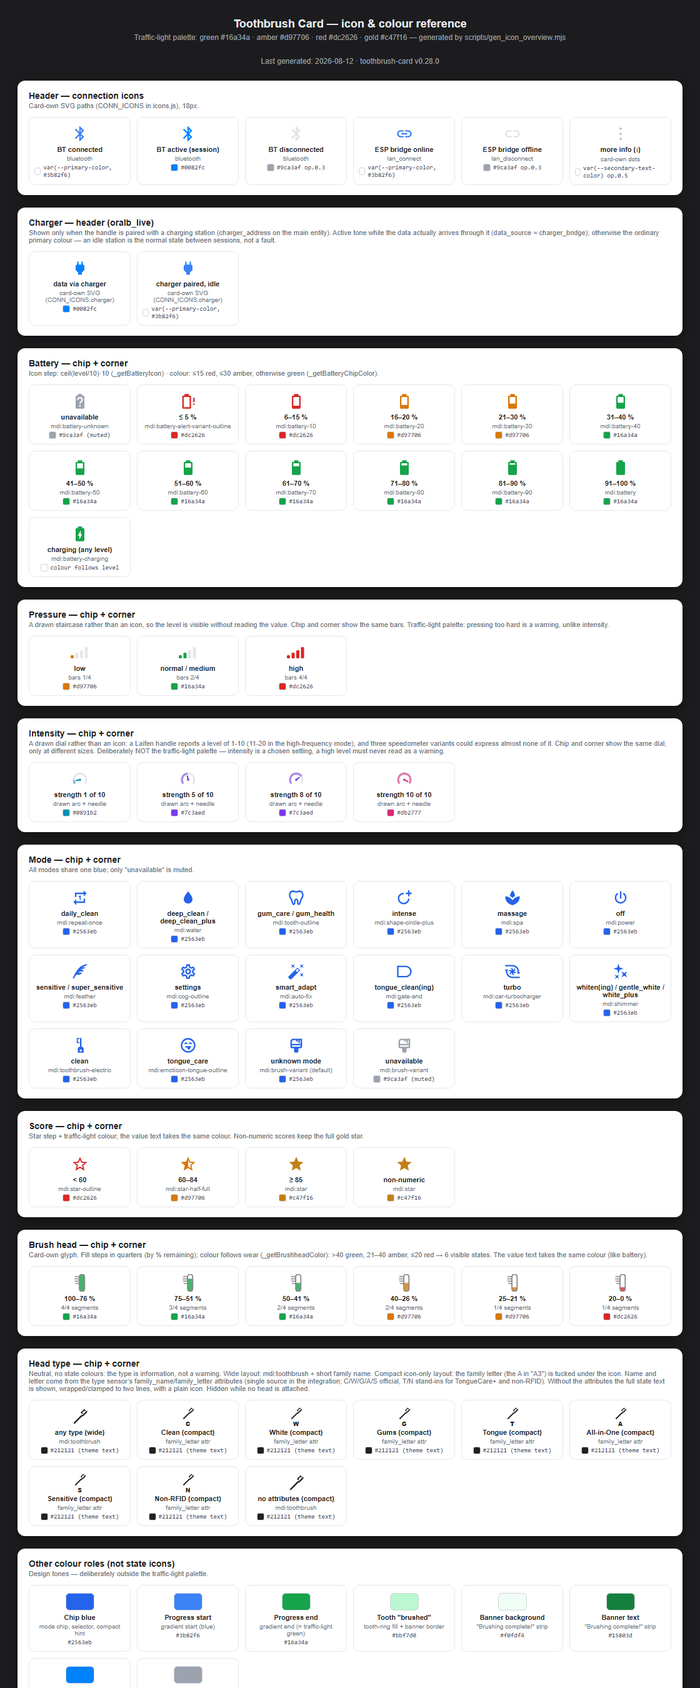
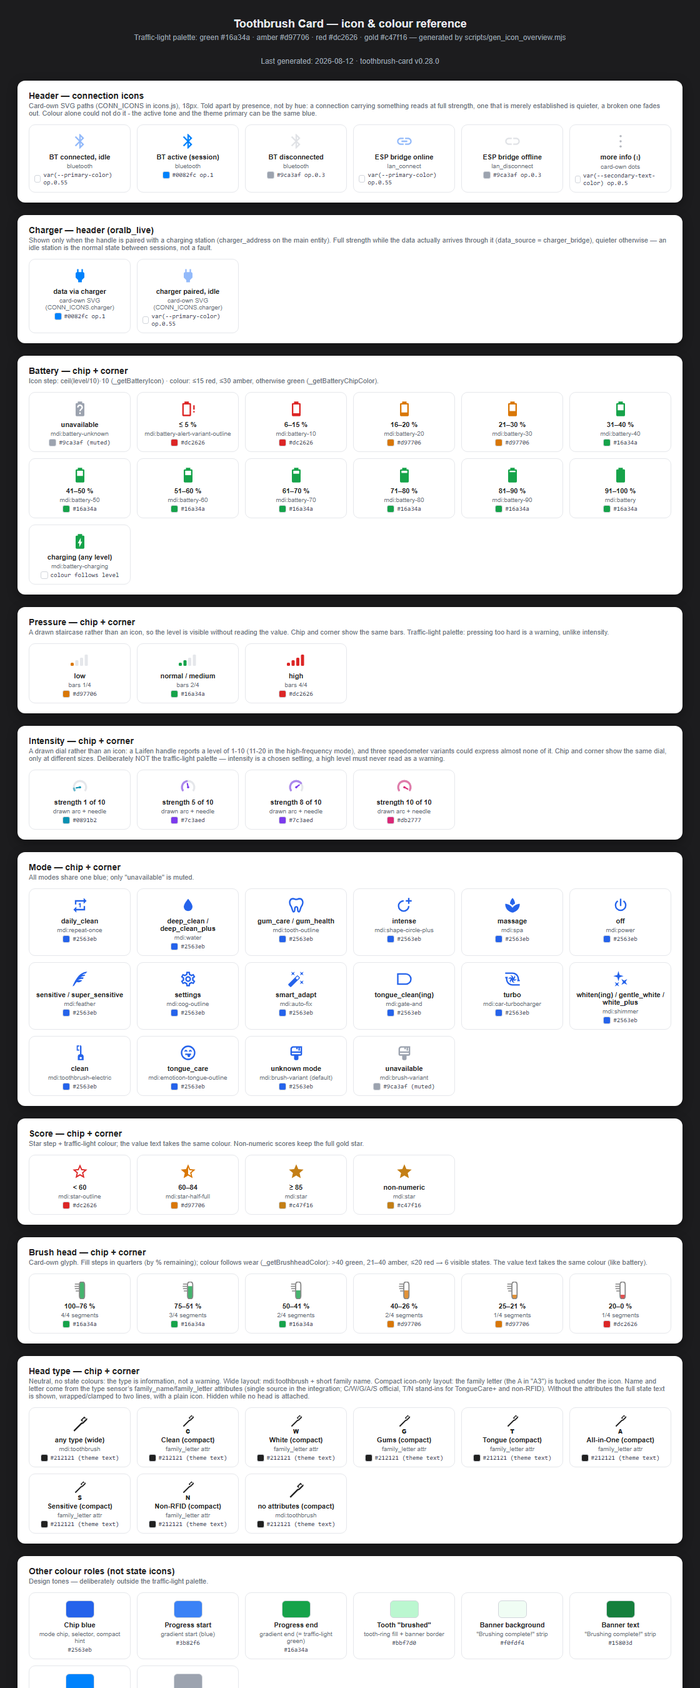
Tell the header connection states apart by presence, not hue
An idle charging station and one actually carrying the data looked
identical, and so did a connected Bluetooth handle and one in a session.
The states differed only in colour: #0082fc for active against
--primary-color for the rest. Those are a 1.02:1 contrast when the theme
leaves primary at its default blue - the same icon twice, as far as
anyone can see.

Colour could not have fixed it either, because --primary-color belongs to
the user. Whatever tone "active" were given, how different it looked
would depend on the theme it happened to land in, and for some themes it
would be identical again.

So the distinction moves off hue and onto presence: a connection carrying
something reads at full strength, one that is merely established sits at
55 %, and a broken one keeps its existing 30 % and muted tone. Three
steps that hold in any theme, because they are relative to each other
rather than to a hue.

That also puts the emphasis where it belongs. The header says what is
connected; what is happening right now should be the part that stands
out.

The icon reference shows the states at their real opacities rather than
all at full strength, which is why they looked the same there too.

Changed region(s): [[0.0312, 0.0622, 0.9688, 1.0]]

diff --git a/dist/toothbrush-card.js b/dist/toothbrush-card.js
@@ -1145,11 +1145,11 @@ function $19924b6af6e06bb0$export$fbe194d49df99db9(prev, { sector: sector, activ
 
 
 var $7bfe0f8b5ad5b7ee$exports = {};
-$7bfe0f8b5ad5b7ee$exports = "ha-card {\n  overflow: visible;\n  container-type: inline-size;\n}\n\n.device-not-found {\n  color: var(--secondary-text-color);\n  padding: 16px 18px;\n  font-size: 13px;\n}\n\n.card-header {\n  border-bottom: 1px solid var(--divider-color, #f3f4f6);\n  border-top-left-radius: var(--ha-card-border-radius, 12px);\n  border-top-right-radius: var(--ha-card-border-radius, 12px);\n  justify-content: space-between;\n  align-items: center;\n  padding: 16px 18px 12px;\n  display: flex;\n  position: relative;\n  overflow: hidden;\n}\n\n.card-header:before {\n  content: \"\";\n  background: var(--accent-color, transparent);\n  opacity: .12;\n  pointer-events: none;\n  transition: background .5s;\n  position: absolute;\n  inset: 0;\n}\n\n.header-accent {\n  background: var(--accent-color);\n  border-radius: 3px;\n  flex-shrink: 0;\n  width: 4px;\n  height: 28px;\n  transition: background .4s;\n}\n\n.header-title {\n  align-items: center;\n  gap: 8px;\n  display: flex;\n}\n\n.header-title h2 {\n  color: var(--primary-text-color);\n  letter-spacing: -.01em;\n  margin: 0;\n  font-size: 15px;\n  font-weight: 700;\n}\n\n.header-sub {\n  color: var(--secondary-text-color);\n  font-size: 12px;\n  font-weight: 400;\n}\n\n.header-icons {\n  align-items: center;\n  gap: 10px;\n  display: flex;\n}\n\n.header-icons svg:not(.conn-icon) {\n  width: 16px;\n  height: 16px;\n}\n\n.conn-icon {\n  width: 18px;\n  height: 18px;\n  color: var(--primary-color, #3b82f6);\n  fill: currentColor;\n  cursor: pointer;\n  opacity: 1;\n  transition: color .4s, opacity .4s;\n}\n\n.conn-icon.active {\n  color: #0082fc;\n}\n\n.conn-icon.disconnected {\n  color: var(--disabled-text-color, #9ca3af);\n  opacity: .3;\n}\n\n.more-info-btn {\n  cursor: pointer;\n  opacity: .5;\n  transition: opacity .2s;\n  color: var(--secondary-text-color) !important;\n}\n\n.more-info-btn:hover {\n  opacity: 1;\n}\n\n.init-wrap {\n  flex-direction: column;\n  justify-content: center;\n  align-items: center;\n  padding: 24px 0 32px;\n  display: flex;\n  overflow: hidden;\n}\n\n.init-rings {\n  flex-shrink: 0;\n  justify-content: center;\n  align-items: center;\n  width: 180px;\n  height: 180px;\n  display: flex;\n  position: relative;\n}\n\n.init-ring {\n  border: 2px solid var(--primary-color, #3b82f6);\n  opacity: 0;\n  border-radius: 50%;\n  animation: 3s ease-out infinite initPulse;\n  position: absolute;\n}\n\n.init-ring-1 {\n  width: 70px;\n  height: 70px;\n  animation-delay: 0s;\n}\n\n.init-ring-2 {\n  width: 70px;\n  height: 70px;\n  animation-delay: 1s;\n}\n\n.init-ring-3 {\n  width: 70px;\n  height: 70px;\n  animation-delay: 2s;\n}\n\n@keyframes initPulse {\n  0% {\n    opacity: .6;\n    width: 70px;\n    height: 70px;\n  }\n\n  100% {\n    opacity: 0;\n    width: 190px;\n    height: 190px;\n  }\n}\n\n.init-bt {\n  z-index: 1;\n  width: 52px;\n  height: 52px;\n  animation: 2s ease-in-out infinite initBtPulse;\n  position: relative;\n}\n\n.init-bt svg {\n  width: 52px;\n  height: 52px;\n}\n\n@keyframes initBtPulse {\n  0%, 100% {\n    opacity: .5;\n    transform: scale(.95);\n  }\n\n  50% {\n    opacity: 1;\n    transform: scale(1.05);\n  }\n}\n\n.init-label {\n  color: var(--primary-color, #3b82f6);\n  margin-top: 6px;\n  font-size: 13px;\n  font-weight: 500;\n}\n\n.chips-row {\n  gap: 8px;\n  padding: 12px 14px;\n  display: flex;\n}\n\n.chips-row > * {\n  flex: 1;\n  min-width: 0;\n}\n\n.chip {\n  background: var(--card-background-color, #f9fafb);\n  border: 1px solid var(--divider-color, #e5e7eb);\n  cursor: pointer;\n  border-radius: 10px;\n  grid-template-rows: auto auto;\n  grid-template-columns: auto 1fr;\n  align-items: center;\n  gap: 1px 8px;\n  padding: 8px 10px;\n  display: grid;\n}\n\n.chip-icon {\n  grid-row: 1 / 3;\n  justify-content: center;\n  align-items: center;\n  display: flex;\n}\n\n.chip-icon ha-icon {\n  --mdc-icon-size: 24px;\n}\n\n.head-type-letter {\n  color: var(--primary-text-color);\n  font-weight: 800;\n  display: none;\n}\n\n.chip-icon .brushhead-svg {\n  width: 19px;\n  height: 24px;\n}\n\n.chip-icon.green {\n  color: #16a34a;\n}\n\n.chip-icon.blue {\n  color: #2563eb;\n}\n\n.chip-icon.amber {\n  color: #d97706;\n}\n\n.chip-icon.red {\n  color: #dc2626;\n}\n\n.chip-icon.muted {\n  color: var(--disabled-text-color, #9ca3af);\n}\n\n.chip-icon.int-low {\n  color: #0891b2;\n}\n\n.chip-icon.int-med {\n  color: #7c3aed;\n}\n\n.chip-icon.int-high {\n  color: #db2777;\n}\n\n.chip-icon.gold {\n  color: #c47f16;\n}\n\n.chip-label {\n  color: var(--secondary-text-color);\n  text-transform: uppercase;\n  letter-spacing: .06em;\n  font-size: 9px;\n  font-weight: 600;\n}\n\n.chip-value {\n  color: var(--primary-text-color);\n  text-transform: capitalize;\n  text-overflow: ellipsis;\n  white-space: nowrap;\n  font-size: 12px;\n  font-weight: 700;\n  line-height: 1;\n  overflow: hidden;\n}\n\n.chip-value.green {\n  color: #16a34a;\n}\n\n.chip-value.blue {\n  color: #2563eb;\n}\n\n.chip-value.amber {\n  color: #d97706;\n}\n\n.chip-value.red {\n  color: #dc2626;\n}\n\n.chip-value.int-low {\n  color: #0891b2;\n}\n\n.chip-value.int-med {\n  color: #7c3aed;\n}\n\n.chip-value.int-high {\n  color: #db2777;\n}\n\n.chip-value.gold {\n  color: #c47f16;\n}\n\n.chip-value.muted {\n  color: var(--disabled-text-color, #9ca3af);\n}\n\n.chip-value.prose {\n  text-transform: none;\n}\n\n.chip-value.wrap {\n  white-space: normal;\n  -webkit-line-clamp: 2;\n  line-clamp: 2;\n  -webkit-box-orient: vertical;\n  font-size: 11px;\n  line-height: 1.15;\n  display: -webkit-box;\n}\n\n.pressure-bars {\n  grid-row: 1 / 3;\n  justify-content: center;\n  align-items: flex-end;\n  gap: 2px;\n  display: flex;\n}\n\n.pb {\n  background: var(--divider-color, #e5e7eb);\n  border-radius: 2px;\n  width: 4px;\n  transition: background .3s;\n}\n\n.pb:first-child {\n  height: 5px;\n}\n\n.pb:nth-child(2) {\n  height: 9px;\n}\n\n.pb:nth-child(3) {\n  height: 13px;\n}\n\n.pb:nth-child(4) {\n  height: 18px;\n}\n\n.p-low .pb:first-child {\n  background: #d97706;\n}\n\n.p-normal .pb:first-child, .p-normal .pb:nth-child(2) {\n  background: #16a34a;\n}\n\n.p-high .pb {\n  background: #dc2626;\n}\n\n.intensity-dial {\n  width: 24px;\n  height: 24px;\n  display: block;\n}\n\n.id-track {\n  fill: none;\n  stroke: var(--divider-color, #e5e7eb);\n  stroke-width: 2.8px;\n  stroke-linecap: round;\n}\n\n.id-arc {\n  fill: none;\n  stroke: currentColor;\n  stroke-width: 2.8px;\n  stroke-linecap: round;\n  opacity: .55;\n  transition: stroke-dasharray .3s;\n}\n\n.id-needle {\n  stroke: currentColor;\n  stroke-width: 1.8px;\n  stroke-linecap: round;\n}\n\n.id-hub {\n  fill: currentColor;\n}\n\n.mode-chip-wrap {\n  position: relative;\n}\n\n.chip.selectable {\n  cursor: pointer;\n}\n\n.mode-caret {\n  opacity: .5;\n  font-size: 10px;\n}\n\n.chip-select-hint {\n  display: none;\n}\n\n.dropdown-backdrop {\n  z-index: 9;\n  position: fixed;\n  inset: 0;\n}\n\n.mode-dropdown {\n  z-index: 10;\n  background: var(--card-background-color, #fff);\n  border: 1px solid var(--divider-color, #e5e7eb);\n  border-radius: 12px;\n  min-width: 160px;\n  animation: .15s ease-out dropdown-in;\n  position: absolute;\n  top: calc(100% + 4px);\n  right: 0;\n  overflow: hidden;\n  box-shadow: 0 4px 16px #0000001f;\n}\n\n@keyframes dropdown-in {\n  from {\n    opacity: 0;\n    transform: translateY(-4px);\n  }\n\n  to {\n    opacity: 1;\n    transform: translateY(0);\n  }\n}\n\n.mode-option {\n  cursor: pointer;\n  color: var(--primary-text-color);\n  align-items: center;\n  gap: 10px;\n  padding: 10px 14px;\n  font-size: 13px;\n  font-weight: 500;\n  transition: background .15s;\n  display: flex;\n}\n\n.mode-option:hover {\n  background: var(--secondary-background-color, #f3f4f6);\n}\n\n.mode-option.active {\n  color: #2563eb;\n  font-weight: 600;\n}\n\n.mode-option ha-icon {\n  --mdc-icon-size: 20px;\n  color: inherit;\n}\n\n.mode-option:not(:last-child) {\n  border-bottom: 1px solid var(--divider-color, #f3f4f6);\n}\n\n.visual-area {\n  flex-direction: column;\n  align-items: center;\n  padding: 4px 14px 10px;\n  display: flex;\n  position: relative;\n}\n\n.card-header + .visual-area, .visual-area:first-child {\n  padding-top: 16px;\n}\n\n.tooth-wrap {\n  width: calc(210px * var(--tb-scale, 1));\n  height: calc(210px * var(--tb-scale, 1));\n  justify-content: center;\n  align-items: center;\n  display: flex;\n  position: relative;\n}\n\n.tooth-svg {\n  width: 100%;\n  height: 100%;\n}\n\n.zone {\n  fill: var(--tb-tooth-color, var(--divider-color, #f3f4f6));\n  transition: fill .3s;\n}\n\n.brushing .zone {\n  fill: var(--tb-active-color, #93c5fd);\n  animation: .8s ease-in-out infinite alternate brush-zone;\n}\n\n@keyframes brush-zone {\n  from {\n    opacity: .6;\n  }\n\n  to {\n    opacity: 1;\n  }\n}\n\n.done .zone {\n  fill: var(--tb-done-color, #bbf7d0) !important;\n}\n\n.center-info {\n  text-align: center;\n  pointer-events: none;\n  position: absolute;\n  top: 50%;\n  left: 50%;\n  transform: translate(-50%, -50%);\n}\n\n.session-label {\n  font-size: calc(9px * var(--tb-scale, 1));\n  color: var(--secondary-text-color);\n  text-transform: uppercase;\n  letter-spacing: .1em;\n  margin-bottom: 2px;\n  font-weight: 600;\n  display: block;\n}\n\n.timer-display {\n  font-size: calc(30px * var(--tb-scale, 1));\n  color: var(--primary-text-color);\n  letter-spacing: -1px;\n  font-variant-numeric: tabular-nums;\n  font-weight: 400;\n  line-height: 1;\n  transition: color .4s;\n}\n\n.timer-display.active {\n  color: var(--primary-color, #2563eb);\n}\n\n.center-info.standalone {\n  pointer-events: auto;\n  cursor: pointer;\n  padding: 10px 0 4px;\n  position: static;\n  transform: none;\n}\n\n.center-info.standalone .timer-display {\n  font-size: calc(52px * var(--tb-scale, 1));\n  letter-spacing: -2px;\n}\n\n.status-row {\n  grid-template-columns: calc(66px * var(--tb-scale, 1)) 1fr calc(66px * var(--tb-scale, 1));\n  align-items: center;\n  width: calc(100% + 8px);\n  margin: 2px -4px 10px;\n  display: grid;\n}\n\n.status-row .card-corner {\n  position: static;\n}\n\n.status-text-wrap {\n  text-align: center;\n  cursor: pointer;\n}\n\n.status-main {\n  font-size: calc(14px * var(--tb-scale, 1));\n  color: var(--primary-text-color);\n  text-transform: capitalize;\n  font-weight: 600;\n  transition: color .4s;\n}\n\n.status-main.active {\n  color: var(--primary-color, #2563eb);\n}\n\n.status-sub {\n  font-size: calc(11px * var(--tb-scale, 1));\n  color: var(--secondary-text-color);\n  text-transform: capitalize;\n  margin-top: 1px;\n}\n\n.progress-wrap {\n  opacity: 0;\n  width: 100%;\n  height: 0;\n  padding: 0 14px;\n  transition: opacity .4s, height .4s;\n  overflow: hidden;\n}\n\n.progress-wrap.visible {\n  opacity: 1;\n  height: auto;\n  padding: 0 14px 10px;\n}\n\n.progress-track {\n  height: calc(var(--tb-bar-height, 4px) * var(--tb-scale, 1));\n  gap: 3px;\n  display: flex;\n}\n\n.progress-wrap.bar-bold {\n  --tb-bar-height: 8px;\n}\n\n.progress-wrap.bar-xl {\n  --tb-bar-height: 12px;\n}\n\n.progress-seg {\n  background: var(--divider-color, #e5e7eb);\n  border-radius: calc(var(--tb-bar-height, 4px) * var(--tb-scale, 1) / 2);\n  flex: 1;\n  overflow: hidden;\n}\n\n.progress-fill {\n  border-radius: calc(var(--tb-bar-height, 4px) * var(--tb-scale, 1) / 2);\n  height: 100%;\n  transition: width .5s;\n}\n\n.progress-labels {\n  font-size: calc(10px * var(--tb-scale, 1));\n  color: var(--secondary-text-color);\n  justify-content: space-between;\n  margin-top: 4px;\n  display: flex;\n}\n\n.progress-labels span:first-child {\n  text-transform: capitalize;\n}\n\n.done-badge {\n  background: var(--card-background-color, #f0fdf4);\n  text-align: center;\n  border-top: 1px solid #bbf7d0;\n  padding: 10px 14px;\n  display: none;\n  position: relative;\n}\n\n.done-dismiss {\n  cursor: pointer;\n  color: var(--secondary-text-color, #888);\n  background: none;\n  border: none;\n  padding: 2px 4px;\n  font-size: 16px;\n  line-height: 1;\n  position: absolute;\n  top: 6px;\n  right: 10px;\n}\n\n.done-dismiss:hover {\n  color: var(--primary-text-color, #333);\n}\n\n.done-badge.show {\n  animation: .4s cubic-bezier(.34, 1.56, .64, 1) pop-in;\n  display: block;\n}\n\n@keyframes pop-in {\n  from {\n    opacity: 0;\n    transform: scaleY(.7);\n  }\n\n  to {\n    opacity: 1;\n    transform: scaleY(1);\n  }\n}\n\n.done-badge p {\n  color: #15803d;\n  margin: 0;\n  font-size: 13px;\n  font-weight: 600;\n}\n\n.done-badge span {\n  color: #16a34a;\n  font-size: 11px;\n}\n\n.done-age {\n  color: var(--secondary-text-color, #888);\n  font-size: 11px;\n  font-weight: 400;\n}\n\n.done-badge.aborted {\n  border-top-color: #fde68a;\n}\n\n.done-badge.aborted p {\n  color: #b45309;\n}\n\n.done-badge.aborted span {\n  color: #d97706;\n}\n\n.card-corner {\n  width: calc(66px * var(--tb-scale, 1));\n  cursor: pointer;\n  opacity: .85;\n  z-index: 1;\n  flex-direction: column;\n  align-items: center;\n  gap: 1px;\n  transition: opacity .2s;\n  display: flex;\n  position: absolute;\n}\n\n.card-corner:hover {\n  opacity: 1;\n}\n\n.card-corner.tl {\n  top: 6px;\n  left: 10px;\n}\n\n.card-corner.tr {\n  top: 6px;\n  right: 10px;\n}\n\n.corner-ico .intensity-dial {\n  width: 100%;\n  height: 100%;\n}\n\n.corner-ico .pressure-bars {\n  width: 100%;\n  height: 100%;\n  transform: scale(var(--tb-scale, 1));\n  transform-origin: center;\n}\n\n.corner-ico {\n  --mdc-icon-size: calc(22px * var(--tb-scale, 1));\n  width: calc(22px * var(--tb-scale, 1));\n  height: calc(22px * var(--tb-scale, 1));\n}\n\n.corner-lbl {\n  font-size: calc(8px * var(--tb-scale, 1));\n  letter-spacing: .06em;\n  text-transform: uppercase;\n  color: var(--secondary-text-color);\n  text-overflow: ellipsis;\n  white-space: nowrap;\n  max-width: 100%;\n  font-weight: 700;\n  overflow: hidden;\n}\n\n.corner-val {\n  font-size: calc(11px * var(--tb-scale, 1));\n  font-variant-numeric: tabular-nums;\n  text-overflow: ellipsis;\n  white-space: nowrap;\n  max-width: 100%;\n  font-weight: 800;\n  overflow: hidden;\n}\n\n.corner-val.wrap {\n  white-space: normal;\n  font-size: calc(10px * var(--tb-scale, 1));\n  text-align: center;\n  -webkit-line-clamp: 2;\n  line-clamp: 2;\n  -webkit-box-orient: vertical;\n  line-height: 1.15;\n  display: -webkit-box;\n}\n\n.corner-ico.green, .corner-val.green {\n  color: #16a34a;\n}\n\n.corner-ico.blue, .corner-val.blue {\n  color: #2563eb;\n}\n\n.corner-ico.amber, .corner-val.amber {\n  color: #d97706;\n}\n\n.corner-ico.red, .corner-val.red {\n  color: #dc2626;\n}\n\n.corner-ico.muted, .corner-val.muted {\n  color: var(--disabled-text-color, #9ca3af);\n}\n\n.corner-ico.int-low, .corner-val.int-low {\n  color: #0891b2;\n}\n\n.corner-ico.int-med, .corner-val.int-med {\n  color: #7c3aed;\n}\n\n.corner-ico.int-high, .corner-val.int-high {\n  color: #db2777;\n}\n\n.corner-ico.gold, .corner-val.gold {\n  color: #c47f16;\n}\n\n.brushhead-svg {\n  width: calc(17px * var(--tb-scale, 1));\n  height: calc(22px * var(--tb-scale, 1));\n}\n\n.brushhead-pct {\n  color: var(--secondary-text-color);\n  font-size: 9px;\n  font-weight: 600;\n}\n\n@container (width <= 350px) {\n  .chip {\n    grid-template-columns: 1fr;\n    justify-items: center;\n    row-gap: 0;\n    padding: 8px 4px;\n    position: relative;\n  }\n\n  .chip-icon, .pressure-bars {\n    grid-row: auto;\n  }\n\n  .chip-label, .chip-value {\n    display: none;\n  }\n\n  .chip-icon.has-letter {\n    position: relative;\n  }\n\n  .chip-icon.has-letter .head-type-letter {\n    font-size: 10px;\n    line-height: 1;\n    display: block;\n    position: absolute;\n    bottom: -1px;\n    right: -4px;\n  }\n\n  .chip-select-hint {\n    --mdc-icon-size: 12px;\n    color: #2563eb;\n    opacity: .6;\n    display: block;\n    position: absolute;\n    bottom: 2px;\n    right: 2px;\n  }\n\n  .tooth-wrap {\n    width: calc(180px * var(--tb-scale, 1));\n    height: calc(180px * var(--tb-scale, 1));\n  }\n\n  .timer-display {\n    font-size: calc(26px * var(--tb-scale, 1));\n  }\n\n  .card-corner {\n    width: calc(54px * var(--tb-scale, 1));\n  }\n\n  .card-corner.tl {\n    left: 2px;\n  }\n\n  .card-corner.tr {\n    right: 2px;\n  }\n\n  .status-row {\n    grid-template-columns: calc(54px * var(--tb-scale, 1)) 1fr calc(54px * var(--tb-scale, 1));\n    width: calc(100% + 24px);\n    margin-left: -12px;\n    margin-right: -12px;\n  }\n}\n";
+$7bfe0f8b5ad5b7ee$exports = "ha-card {\n  overflow: visible;\n  container-type: inline-size;\n}\n\n.device-not-found {\n  color: var(--secondary-text-color);\n  padding: 16px 18px;\n  font-size: 13px;\n}\n\n.card-header {\n  border-bottom: 1px solid var(--divider-color, #f3f4f6);\n  border-top-left-radius: var(--ha-card-border-radius, 12px);\n  border-top-right-radius: var(--ha-card-border-radius, 12px);\n  justify-content: space-between;\n  align-items: center;\n  padding: 16px 18px 12px;\n  display: flex;\n  position: relative;\n  overflow: hidden;\n}\n\n.card-header:before {\n  content: \"\";\n  background: var(--accent-color, transparent);\n  opacity: .12;\n  pointer-events: none;\n  transition: background .5s;\n  position: absolute;\n  inset: 0;\n}\n\n.header-accent {\n  background: var(--accent-color);\n  border-radius: 3px;\n  flex-shrink: 0;\n  width: 4px;\n  height: 28px;\n  transition: background .4s;\n}\n\n.header-title {\n  align-items: center;\n  gap: 8px;\n  display: flex;\n}\n\n.header-title h2 {\n  color: var(--primary-text-color);\n  letter-spacing: -.01em;\n  margin: 0;\n  font-size: 15px;\n  font-weight: 700;\n}\n\n.header-sub {\n  color: var(--secondary-text-color);\n  font-size: 12px;\n  font-weight: 400;\n}\n\n.header-icons {\n  align-items: center;\n  gap: 10px;\n  display: flex;\n}\n\n.header-icons svg:not(.conn-icon) {\n  width: 16px;\n  height: 16px;\n}\n\n.conn-icon {\n  width: 18px;\n  height: 18px;\n  color: var(--primary-color, #3b82f6);\n  fill: currentColor;\n  cursor: pointer;\n  opacity: .55;\n  transition: color .4s, opacity .4s;\n}\n\n.conn-icon.active {\n  color: #0082fc;\n  opacity: 1;\n}\n\n.conn-icon.disconnected {\n  color: var(--disabled-text-color, #9ca3af);\n  opacity: .3;\n}\n\n.more-info-btn {\n  cursor: pointer;\n  opacity: .5;\n  transition: opacity .2s;\n  color: var(--secondary-text-color) !important;\n}\n\n.more-info-btn:hover {\n  opacity: 1;\n}\n\n.init-wrap {\n  flex-direction: column;\n  justify-content: center;\n  align-items: center;\n  padding: 24px 0 32px;\n  display: flex;\n  overflow: hidden;\n}\n\n.init-rings {\n  flex-shrink: 0;\n  justify-content: center;\n  align-items: center;\n  width: 180px;\n  height: 180px;\n  display: flex;\n  position: relative;\n}\n\n.init-ring {\n  border: 2px solid var(--primary-color, #3b82f6);\n  opacity: 0;\n  border-radius: 50%;\n  animation: 3s ease-out infinite initPulse;\n  position: absolute;\n}\n\n.init-ring-1 {\n  width: 70px;\n  height: 70px;\n  animation-delay: 0s;\n}\n\n.init-ring-2 {\n  width: 70px;\n  height: 70px;\n  animation-delay: 1s;\n}\n\n.init-ring-3 {\n  width: 70px;\n  height: 70px;\n  animation-delay: 2s;\n}\n\n@keyframes initPulse {\n  0% {\n    opacity: .6;\n    width: 70px;\n    height: 70px;\n  }\n\n  100% {\n    opacity: 0;\n    width: 190px;\n    height: 190px;\n  }\n}\n\n.init-bt {\n  z-index: 1;\n  width: 52px;\n  height: 52px;\n  animation: 2s ease-in-out infinite initBtPulse;\n  position: relative;\n}\n\n.init-bt svg {\n  width: 52px;\n  height: 52px;\n}\n\n@keyframes initBtPulse {\n  0%, 100% {\n    opacity: .5;\n    transform: scale(.95);\n  }\n\n  50% {\n    opacity: 1;\n    transform: scale(1.05);\n  }\n}\n\n.init-label {\n  color: var(--primary-color, #3b82f6);\n  margin-top: 6px;\n  font-size: 13px;\n  font-weight: 500;\n}\n\n.chips-row {\n  gap: 8px;\n  padding: 12px 14px;\n  display: flex;\n}\n\n.chips-row > * {\n  flex: 1;\n  min-width: 0;\n}\n\n.chip {\n  background: var(--card-background-color, #f9fafb);\n  border: 1px solid var(--divider-color, #e5e7eb);\n  cursor: pointer;\n  border-radius: 10px;\n  grid-template-rows: auto auto;\n  grid-template-columns: auto 1fr;\n  align-items: center;\n  gap: 1px 8px;\n  padding: 8px 10px;\n  display: grid;\n}\n\n.chip-icon {\n  grid-row: 1 / 3;\n  justify-content: center;\n  align-items: center;\n  display: flex;\n}\n\n.chip-icon ha-icon {\n  --mdc-icon-size: 24px;\n}\n\n.head-type-letter {\n  color: var(--primary-text-color);\n  font-weight: 800;\n  display: none;\n}\n\n.chip-icon .brushhead-svg {\n  width: 19px;\n  height: 24px;\n}\n\n.chip-icon.green {\n  color: #16a34a;\n}\n\n.chip-icon.blue {\n  color: #2563eb;\n}\n\n.chip-icon.amber {\n  color: #d97706;\n}\n\n.chip-icon.red {\n  color: #dc2626;\n}\n\n.chip-icon.muted {\n  color: var(--disabled-text-color, #9ca3af);\n}\n\n.chip-icon.int-low {\n  color: #0891b2;\n}\n\n.chip-icon.int-med {\n  color: #7c3aed;\n}\n\n.chip-icon.int-high {\n  color: #db2777;\n}\n\n.chip-icon.gold {\n  color: #c47f16;\n}\n\n.chip-label {\n  color: var(--secondary-text-color);\n  text-transform: uppercase;\n  letter-spacing: .06em;\n  font-size: 9px;\n  font-weight: 600;\n}\n\n.chip-value {\n  color: var(--primary-text-color);\n  text-transform: capitalize;\n  text-overflow: ellipsis;\n  white-space: nowrap;\n  font-size: 12px;\n  font-weight: 700;\n  line-height: 1;\n  overflow: hidden;\n}\n\n.chip-value.green {\n  color: #16a34a;\n}\n\n.chip-value.blue {\n  color: #2563eb;\n}\n\n.chip-value.amber {\n  color: #d97706;\n}\n\n.chip-value.red {\n  color: #dc2626;\n}\n\n.chip-value.int-low {\n  color: #0891b2;\n}\n\n.chip-value.int-med {\n  color: #7c3aed;\n}\n\n.chip-value.int-high {\n  color: #db2777;\n}\n\n.chip-value.gold {\n  color: #c47f16;\n}\n\n.chip-value.muted {\n  color: var(--disabled-text-color, #9ca3af);\n}\n\n.chip-value.prose {\n  text-transform: none;\n}\n\n.chip-value.wrap {\n  white-space: normal;\n  -webkit-line-clamp: 2;\n  line-clamp: 2;\n  -webkit-box-orient: vertical;\n  font-size: 11px;\n  line-height: 1.15;\n  display: -webkit-box;\n}\n\n.pressure-bars {\n  grid-row: 1 / 3;\n  justify-content: center;\n  align-items: flex-end;\n  gap: 2px;\n  display: flex;\n}\n\n.pb {\n  background: var(--divider-color, #e5e7eb);\n  border-radius: 2px;\n  width: 4px;\n  transition: background .3s;\n}\n\n.pb:first-child {\n  height: 5px;\n}\n\n.pb:nth-child(2) {\n  height: 9px;\n}\n\n.pb:nth-child(3) {\n  height: 13px;\n}\n\n.pb:nth-child(4) {\n  height: 18px;\n}\n\n.p-low .pb:first-child {\n  background: #d97706;\n}\n\n.p-normal .pb:first-child, .p-normal .pb:nth-child(2) {\n  background: #16a34a;\n}\n\n.p-high .pb {\n  background: #dc2626;\n}\n\n.intensity-dial {\n  width: 24px;\n  height: 24px;\n  display: block;\n}\n\n.id-track {\n  fill: none;\n  stroke: var(--divider-color, #e5e7eb);\n  stroke-width: 2.8px;\n  stroke-linecap: round;\n}\n\n.id-arc {\n  fill: none;\n  stroke: currentColor;\n  stroke-width: 2.8px;\n  stroke-linecap: round;\n  opacity: .55;\n  transition: stroke-dasharray .3s;\n}\n\n.id-needle {\n  stroke: currentColor;\n  stroke-width: 1.8px;\n  stroke-linecap: round;\n}\n\n.id-hub {\n  fill: currentColor;\n}\n\n.mode-chip-wrap {\n  position: relative;\n}\n\n.chip.selectable {\n  cursor: pointer;\n}\n\n.mode-caret {\n  opacity: .5;\n  font-size: 10px;\n}\n\n.chip-select-hint {\n  display: none;\n}\n\n.dropdown-backdrop {\n  z-index: 9;\n  position: fixed;\n  inset: 0;\n}\n\n.mode-dropdown {\n  z-index: 10;\n  background: var(--card-background-color, #fff);\n  border: 1px solid var(--divider-color, #e5e7eb);\n  border-radius: 12px;\n  min-width: 160px;\n  animation: .15s ease-out dropdown-in;\n  position: absolute;\n  top: calc(100% + 4px);\n  right: 0;\n  overflow: hidden;\n  box-shadow: 0 4px 16px #0000001f;\n}\n\n@keyframes dropdown-in {\n  from {\n    opacity: 0;\n    transform: translateY(-4px);\n  }\n\n  to {\n    opacity: 1;\n    transform: translateY(0);\n  }\n}\n\n.mode-option {\n  cursor: pointer;\n  color: var(--primary-text-color);\n  align-items: center;\n  gap: 10px;\n  padding: 10px 14px;\n  font-size: 13px;\n  font-weight: 500;\n  transition: background .15s;\n  display: flex;\n}\n\n.mode-option:hover {\n  background: var(--secondary-background-color, #f3f4f6);\n}\n\n.mode-option.active {\n  color: #2563eb;\n  font-weight: 600;\n}\n\n.mode-option ha-icon {\n  --mdc-icon-size: 20px;\n  color: inherit;\n}\n\n.mode-option:not(:last-child) {\n  border-bottom: 1px solid var(--divider-color, #f3f4f6);\n}\n\n.visual-area {\n  flex-direction: column;\n  align-items: center;\n  padding: 4px 14px 10px;\n  display: flex;\n  position: relative;\n}\n\n.card-header + .visual-area, .visual-area:first-child {\n  padding-top: 16px;\n}\n\n.tooth-wrap {\n  width: calc(210px * var(--tb-scale, 1));\n  height: calc(210px * var(--tb-scale, 1));\n  justify-content: center;\n  align-items: center;\n  display: flex;\n  position: relative;\n}\n\n.tooth-svg {\n  width: 100%;\n  height: 100%;\n}\n\n.zone {\n  fill: var(--tb-tooth-color, var(--divider-color, #f3f4f6));\n  transition: fill .3s;\n}\n\n.brushing .zone {\n  fill: var(--tb-active-color, #93c5fd);\n  animation: .8s ease-in-out infinite alternate brush-zone;\n}\n\n@keyframes brush-zone {\n  from {\n    opacity: .6;\n  }\n\n  to {\n    opacity: 1;\n  }\n}\n\n.done .zone {\n  fill: var(--tb-done-color, #bbf7d0) !important;\n}\n\n.center-info {\n  text-align: center;\n  pointer-events: none;\n  position: absolute;\n  top: 50%;\n  left: 50%;\n  transform: translate(-50%, -50%);\n}\n\n.session-label {\n  font-size: calc(9px * var(--tb-scale, 1));\n  color: var(--secondary-text-color);\n  text-transform: uppercase;\n  letter-spacing: .1em;\n  margin-bottom: 2px;\n  font-weight: 600;\n  display: block;\n}\n\n.timer-display {\n  font-size: calc(30px * var(--tb-scale, 1));\n  color: var(--primary-text-color);\n  letter-spacing: -1px;\n  font-variant-numeric: tabular-nums;\n  font-weight: 400;\n  line-height: 1;\n  transition: color .4s;\n}\n\n.timer-display.active {\n  color: var(--primary-color, #2563eb);\n}\n\n.center-info.standalone {\n  pointer-events: auto;\n  cursor: pointer;\n  padding: 10px 0 4px;\n  position: static;\n  transform: none;\n}\n\n.center-info.standalone .timer-display {\n  font-size: calc(52px * var(--tb-scale, 1));\n  letter-spacing: -2px;\n}\n\n.status-row {\n  grid-template-columns: calc(66px * var(--tb-scale, 1)) 1fr calc(66px * var(--tb-scale, 1));\n  align-items: center;\n  width: calc(100% + 8px);\n  margin: 2px -4px 10px;\n  display: grid;\n}\n\n.status-row .card-corner {\n  position: static;\n}\n\n.status-text-wrap {\n  text-align: center;\n  cursor: pointer;\n}\n\n.status-main {\n  font-size: calc(14px * var(--tb-scale, 1));\n  color: var(--primary-text-color);\n  text-transform: capitalize;\n  font-weight: 600;\n  transition: color .4s;\n}\n\n.status-main.active {\n  color: var(--primary-color, #2563eb);\n}\n\n.status-sub {\n  font-size: calc(11px * var(--tb-scale, 1));\n  color: var(--secondary-text-color);\n  text-transform: capitalize;\n  margin-top: 1px;\n}\n\n.progress-wrap {\n  opacity: 0;\n  width: 100%;\n  height: 0;\n  padding: 0 14px;\n  transition: opacity .4s, height .4s;\n  overflow: hidden;\n}\n\n.progress-wrap.visible {\n  opacity: 1;\n  height: auto;\n  padding: 0 14px 10px;\n}\n\n.progress-track {\n  height: calc(var(--tb-bar-height, 4px) * var(--tb-scale, 1));\n  gap: 3px;\n  display: flex;\n}\n\n.progress-wrap.bar-bold {\n  --tb-bar-height: 8px;\n}\n\n.progress-wrap.bar-xl {\n  --tb-bar-height: 12px;\n}\n\n.progress-seg {\n  background: var(--divider-color, #e5e7eb);\n  border-radius: calc(var(--tb-bar-height, 4px) * var(--tb-scale, 1) / 2);\n  flex: 1;\n  overflow: hidden;\n}\n\n.progress-fill {\n  border-radius: calc(var(--tb-bar-height, 4px) * var(--tb-scale, 1) / 2);\n  height: 100%;\n  transition: width .5s;\n}\n\n.progress-labels {\n  font-size: calc(10px * var(--tb-scale, 1));\n  color: var(--secondary-text-color);\n  justify-content: space-between;\n  margin-top: 4px;\n  display: flex;\n}\n\n.progress-labels span:first-child {\n  text-transform: capitalize;\n}\n\n.done-badge {\n  background: var(--card-background-color, #f0fdf4);\n  text-align: center;\n  border-top: 1px solid #bbf7d0;\n  padding: 10px 14px;\n  display: none;\n  position: relative;\n}\n\n.done-dismiss {\n  cursor: pointer;\n  color: var(--secondary-text-color, #888);\n  background: none;\n  border: none;\n  padding: 2px 4px;\n  font-size: 16px;\n  line-height: 1;\n  position: absolute;\n  top: 6px;\n  right: 10px;\n}\n\n.done-dismiss:hover {\n  color: var(--primary-text-color, #333);\n}\n\n.done-badge.show {\n  animation: .4s cubic-bezier(.34, 1.56, .64, 1) pop-in;\n  display: block;\n}\n\n@keyframes pop-in {\n  from {\n    opacity: 0;\n    transform: scaleY(.7);\n  }\n\n  to {\n    opacity: 1;\n    transform: scaleY(1);\n  }\n}\n\n.done-badge p {\n  color: #15803d;\n  margin: 0;\n  font-size: 13px;\n  font-weight: 600;\n}\n\n.done-badge span {\n  color: #16a34a;\n  font-size: 11px;\n}\n\n.done-age {\n  color: var(--secondary-text-color, #888);\n  font-size: 11px;\n  font-weight: 400;\n}\n\n.done-badge.aborted {\n  border-top-color: #fde68a;\n}\n\n.done-badge.aborted p {\n  color: #b45309;\n}\n\n.done-badge.aborted span {\n  color: #d97706;\n}\n\n.card-corner {\n  width: calc(66px * var(--tb-scale, 1));\n  cursor: pointer;\n  opacity: .85;\n  z-index: 1;\n  flex-direction: column;\n  align-items: center;\n  gap: 1px;\n  transition: opacity .2s;\n  display: flex;\n  position: absolute;\n}\n\n.card-corner:hover {\n  opacity: 1;\n}\n\n.card-corner.tl {\n  top: 6px;\n  left: 10px;\n}\n\n.card-corner.tr {\n  top: 6px;\n  right: 10px;\n}\n\n.corner-ico .intensity-dial {\n  width: 100%;\n  height: 100%;\n}\n\n.corner-ico .pressure-bars {\n  width: 100%;\n  height: 100%;\n  transform: scale(var(--tb-scale, 1));\n  transform-origin: center;\n}\n\n.corner-ico {\n  --mdc-icon-size: calc(22px * var(--tb-scale, 1));\n  width: calc(22px * var(--tb-scale, 1));\n  height: calc(22px * var(--tb-scale, 1));\n}\n\n.corner-lbl {\n  font-size: calc(8px * var(--tb-scale, 1));\n  letter-spacing: .06em;\n  text-transform: uppercase;\n  color: var(--secondary-text-color);\n  text-overflow: ellipsis;\n  white-space: nowrap;\n  max-width: 100%;\n  font-weight: 700;\n  overflow: hidden;\n}\n\n.corner-val {\n  font-size: calc(11px * var(--tb-scale, 1));\n  font-variant-numeric: tabular-nums;\n  text-overflow: ellipsis;\n  white-space: nowrap;\n  max-width: 100%;\n  font-weight: 800;\n  overflow: hidden;\n}\n\n.corner-val.wrap {\n  white-space: normal;\n  font-size: calc(10px * var(--tb-scale, 1));\n  text-align: center;\n  -webkit-line-clamp: 2;\n  line-clamp: 2;\n  -webkit-box-orient: vertical;\n  line-height: 1.15;\n  display: -webkit-box;\n}\n\n.corner-ico.green, .corner-val.green {\n  color: #16a34a;\n}\n\n.corner-ico.blue, .corner-val.blue {\n  color: #2563eb;\n}\n\n.corner-ico.amber, .corner-val.amber {\n  color: #d97706;\n}\n\n.corner-ico.red, .corner-val.red {\n  color: #dc2626;\n}\n\n.corner-ico.muted, .corner-val.muted {\n  color: var(--disabled-text-color, #9ca3af);\n}\n\n.corner-ico.int-low, .corner-val.int-low {\n  color: #0891b2;\n}\n\n.corner-ico.int-med, .corner-val.int-med {\n  color: #7c3aed;\n}\n\n.corner-ico.int-high, .corner-val.int-high {\n  color: #db2777;\n}\n\n.corner-ico.gold, .corner-val.gold {\n  color: #c47f16;\n}\n\n.brushhead-svg {\n  width: calc(17px * var(--tb-scale, 1));\n  height: calc(22px * var(--tb-scale, 1));\n}\n\n.brushhead-pct {\n  color: var(--secondary-text-color);\n  font-size: 9px;\n  font-weight: 600;\n}\n\n@container (width <= 350px) {\n  .chip {\n    grid-template-columns: 1fr;\n    justify-items: center;\n    row-gap: 0;\n    padding: 8px 4px;\n    position: relative;\n  }\n\n  .chip-icon, .pressure-bars {\n    grid-row: auto;\n  }\n\n  .chip-label, .chip-value {\n    display: none;\n  }\n\n  .chip-icon.has-letter {\n    position: relative;\n  }\n\n  .chip-icon.has-letter .head-type-letter {\n    font-size: 10px;\n    line-height: 1;\n    display: block;\n    position: absolute;\n    bottom: -1px;\n    right: -4px;\n  }\n\n  .chip-select-hint {\n    --mdc-icon-size: 12px;\n    color: #2563eb;\n    opacity: .6;\n    display: block;\n    position: absolute;\n    bottom: 2px;\n    right: 2px;\n  }\n\n  .tooth-wrap {\n    width: calc(180px * var(--tb-scale, 1));\n    height: calc(180px * var(--tb-scale, 1));\n  }\n\n  .timer-display {\n    font-size: calc(26px * var(--tb-scale, 1));\n  }\n\n  .card-corner {\n    width: calc(54px * var(--tb-scale, 1));\n  }\n\n  .card-corner.tl {\n    left: 2px;\n  }\n\n  .card-corner.tr {\n    right: 2px;\n  }\n\n  .status-row {\n    grid-template-columns: calc(54px * var(--tb-scale, 1)) 1fr calc(54px * var(--tb-scale, 1));\n    width: calc(100% + 24px);\n    margin-left: -12px;\n    margin-right: -12px;\n  }\n}\n";
 
 
 // AUTO-GENERATED by scripts/gen_build_info.mjs at build time. Do not edit or commit.
-const $de15c9db4b7b9358$export$17b81730949de002 = "2026-08-12T12:25Z";
+const $de15c9db4b7b9358$export$17b81730949de002 = "2026-08-12T12:41Z";
 
 
 const $930552a63f9e9686$export$d5e7ce6d07daf10f = "0.28.0";

diff --git a/docs/icon-overview.html b/docs/icon-overview.html
@@ -29,19 +29,19 @@
 
   <div class="section">
     <h2>Header — connection icons</h2>
-    <p class="note">Card-own SVG paths (CONN_ICONS in icons.js), 18px.</p>
+    <p class="note">Card-own SVG paths (CONN_ICONS in icons.js), 18px. Told apart by presence, not by hue: a connection carrying something reads at full strength, one that is merely established is quieter, a broken one fades out. Colour alone could not do it - the active tone and the theme primary can be the same blue.</p>
     <div class="grid">
     <div class="cell">
-      <div class="ic"><svg width="28" height="28" viewBox="0 0 24 24" style="opacity:1"><path fill="#3b82f6" d="M17.71 7.71L12 2h-1v7.59L6.41 5 5 6.41 10.59 12 5 17.59 6.41 19 11 14.41V22h1l5.71-5.71-4.3-4.29 4.3-4.29zM13 5.83l1.88 1.88L13 9.59V5.83zm1.88 10.46L13 18.17v-3.76l1.88 1.88z"/></svg></div>
-      <div class="st">BT connected</div>
+      <div class="ic"><svg width="28" height="28" viewBox="0 0 24 24" style="opacity:0.55"><path fill="#3b82f6" d="M17.71 7.71L12 2h-1v7.59L6.41 5 5 6.41 10.59 12 5 17.59 6.41 19 11 14.41V22h1l5.71-5.71-4.3-4.29 4.3-4.29zM13 5.83l1.88 1.88L13 9.59V5.83zm1.88 10.46L13 18.17v-3.76l1.88 1.88z"/></svg></div>
+      <div class="st">BT connected, idle</div>
       <div class="nm">bluetooth</div>
-      <div class="hx"><span class="sw" style="background:var(--primary-color,"></span>var(--primary-color, #3b82f6)</div>
+      <div class="hx"><span class="sw" style="background:var(--primary-color)"></span>var(--primary-color) op.0.55</div>
     </div>
     <div class="cell">
       <div class="ic"><svg width="28" height="28" viewBox="0 0 24 24" style="opacity:1"><path fill="#0082fc" d="M17.71 7.71L12 2h-1v7.59L6.41 5 5 6.41 10.59 12 5 17.59 6.41 19 11 14.41V22h1l5.71-5.71-4.3-4.29 4.3-4.29zM13 5.83l1.88 1.88L13 9.59V5.83zm1.88 10.46L13 18.17v-3.76l1.88 1.88z"/></svg></div>
       <div class="st">BT active (session)</div>
       <div class="nm">bluetooth</div>
-      <div class="hx"><span class="sw" style="background:#0082fc"></span>#0082fc</div>
+      <div class="hx"><span class="sw" style="background:#0082fc"></span>#0082fc op.1</div>
     </div>
     <div class="cell">
       <div class="ic"><svg width="28" height="28" viewBox="0 0 24 24" style="opacity:0.3"><path fill="#9ca3af" d="M17.71 7.71L12 2h-1v7.59L6.41 5 5 6.41 10.59 12 5 17.59 6.41 19 11 14.41V22h1l5.71-5.71-4.3-4.29 4.3-4.29zM13 5.83l1.88 1.88L13 9.59V5.83zm1.88 10.46L13 18.17v-3.76l1.88 1.88z"/></svg></div>
@@ -50,10 +50,10 @@
       <div class="hx"><span class="sw" style="background:#9ca3af"></span>#9ca3af op.0.3</div>
     </div>
     <div class="cell">
-      <div class="ic"><svg width="28" height="28" viewBox="0 0 24 24" style="opacity:1"><path fill="#3b82f6" d="M3.9 12c0-1.71 1.39-3.1 3.1-3.1h4V7H7c-2.76 0-5 2.24-5 5s2.24 5 5 5h4v-1.9H7c-1.71 0-3.1-1.39-3.1-3.1zM8 13h8v-2H8v2zm9-6h-4v1.9h4c1.71 0 3.1 1.39 3.1 3.1s-1.39 3.1-3.1 3.1h-4V17h4c2.76 0 5-2.24 5-5s-2.24-5-5-5z"/></svg></div>
+      <div class="ic"><svg width="28" height="28" viewBox="0 0 24 24" style="opacity:0.55"><path fill="#3b82f6" d="M3.9 12c0-1.71 1.39-3.1 3.1-3.1h4V7H7c-2.76 0-5 2.24-5 5s2.24 5 5 5h4v-1.9H7c-1.71 0-3.1-1.39-3.1-3.1zM8 13h8v-2H8v2zm9-6h-4v1.9h4c1.71 0 3.1 1.39 3.1 3.1s-1.39 3.1-3.1 3.1h-4V17h4c2.76 0 5-2.24 5-5s-2.24-5-5-5z"/></svg></div>
       <div class="st">ESP bridge online</div>
       <div class="nm">lan_connect</div>
-      <div class="hx"><span class="sw" style="background:var(--primary-color,"></span>var(--primary-color, #3b82f6)</div>
+      <div class="hx"><span class="sw" style="background:var(--primary-color)"></span>var(--primary-color) op.0.55</div>
     </div>
     <div class="cell">
       <div class="ic"><svg width="28" height="28" viewBox="0 0 24 24" style="opacity:0.3"><path fill="#9ca3af" d="M3.9 12c0-1.71 1.39-3.1 3.1-3.1h4V7H7c-2.76 0-5 2.24-5 5s2.24 5 5 5h4v-1.9H7c-1.71 0-3.1-1.39-3.1-3.1zM17 7h-4v1.9h4c1.71 0 3.1 1.39 3.1 3.1s-1.39 3.1-3.1 3.1h-4V17h4c2.76 0 5-2.24 5-5s-2.24-5-5-5z"/></svg></div>
@@ -71,19 +71,19 @@
 
   <div class="section">
     <h2>Charger — header (oralb_live)</h2>
-    <p class="note">Shown only when the handle is paired with a charging station (charger_address on the main entity). Active tone while the data actually arrives through it (data_source = charger_bridge); otherwise the ordinary primary colour — an idle station is the normal state between sessions, not a fault.</p>
+    <p class="note">Shown only when the handle is paired with a charging station (charger_address on the main entity). Full strength while the data actually arrives through it (data_source = charger_bridge), quieter otherwise — an idle station is the normal state between sessions, not a fault.</p>
     <div class="grid">
     <div class="cell">
       <div class="ic"><svg width="28" height="28" viewBox="0 0 24 24" style="opacity:1"><path fill="#0082fc" d="M16,7V3H14V7H10V3H8V7H8C7,7 6,8 6,9V14.5L9.5,18V21H14.5V18L18,14.5V9C18,8 17,7 16,7Z"/></svg></div>
       <div class="st">data via charger</div>
       <div class="nm">card-own SVG (CONN_ICONS.charger)</div>
-      <div class="hx"><span class="sw" style="background:#0082fc"></span>#0082fc</div>
+      <div class="hx"><span class="sw" style="background:#0082fc"></span>#0082fc op.1</div>
     </div>
     <div class="cell">
-      <div class="ic"><svg width="28" height="28" viewBox="0 0 24 24" style="opacity:1"><path fill="#3b82f6" d="M16,7V3H14V7H10V3H8V7H8C7,7 6,8 6,9V14.5L9.5,18V21H14.5V18L18,14.5V9C18,8 17,7 16,7Z"/></svg></div>
+      <div class="ic"><svg width="28" height="28" viewBox="0 0 24 24" style="opacity:0.55"><path fill="#3b82f6" d="M16,7V3H14V7H10V3H8V7H8C7,7 6,8 6,9V14.5L9.5,18V21H14.5V18L18,14.5V9C18,8 17,7 16,7Z"/></svg></div>
       <div class="st">charger paired, idle</div>
       <div class="nm">card-own SVG (CONN_ICONS.charger)</div>
-      <div class="hx"><span class="sw" style="background:var(--primary-color,"></span>var(--primary-color, #3b82f6)</div>
+      <div class="hx"><span class="sw" style="background:var(--primary-color)"></span>var(--primary-color) op.0.55</div>
     </div></div>
   </div>
 

diff --git a/src/toothbrush-card.css b/src/toothbrush-card.css
@@ -65,17 +65,26 @@ ha-card {
     width: 16px;
     height: 16px;
 }
+/* Three states, told apart by presence rather than by hue.
+   Colour alone could not do it: "active" used to be #0082fc against
+   --primary-color, and the two are a 1.02:1 contrast when the theme leaves
+   primary at its default blue - indistinguishable. Worse, --primary-color is
+   the user's, so how different the two looked depended on their theme.
+   Now the connection that is carrying something reads at full strength, one
+   that is merely established is quieter, and a broken one fades out. */
 .conn-icon {
     width: 18px;
     height: 18px;
     color: var(--primary-color, #3b82f6);
     fill: currentColor;
     cursor: pointer;
-    opacity: 1;
+    /* Established, but nothing flowing through it right now. */
+    opacity: 0.55;
     transition: color 0.4s, opacity 0.4s;
 }
 .conn-icon.active {
     color: #0082fc;
+    opacity: 1;
 }
 .conn-icon.disconnected {
     color: var(--disabled-text-color, #9ca3af);
